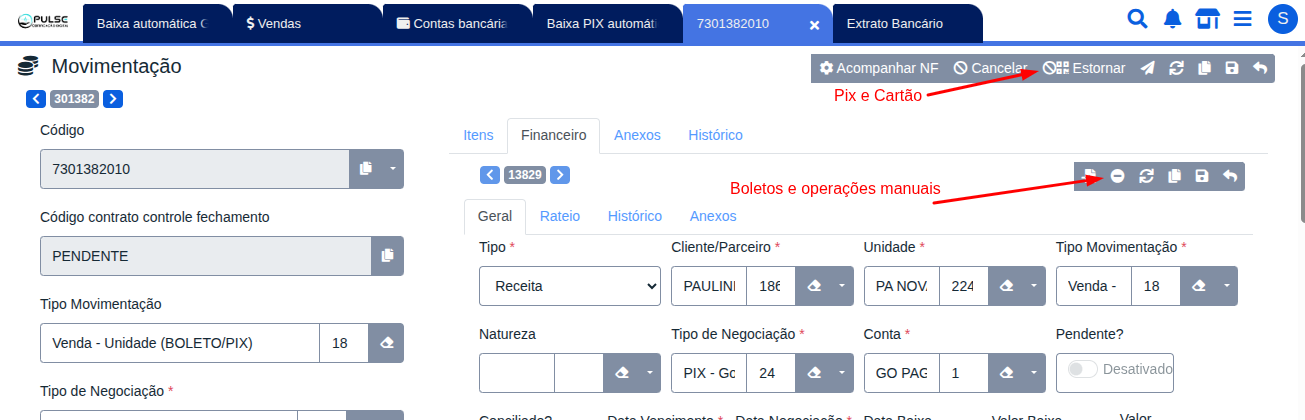
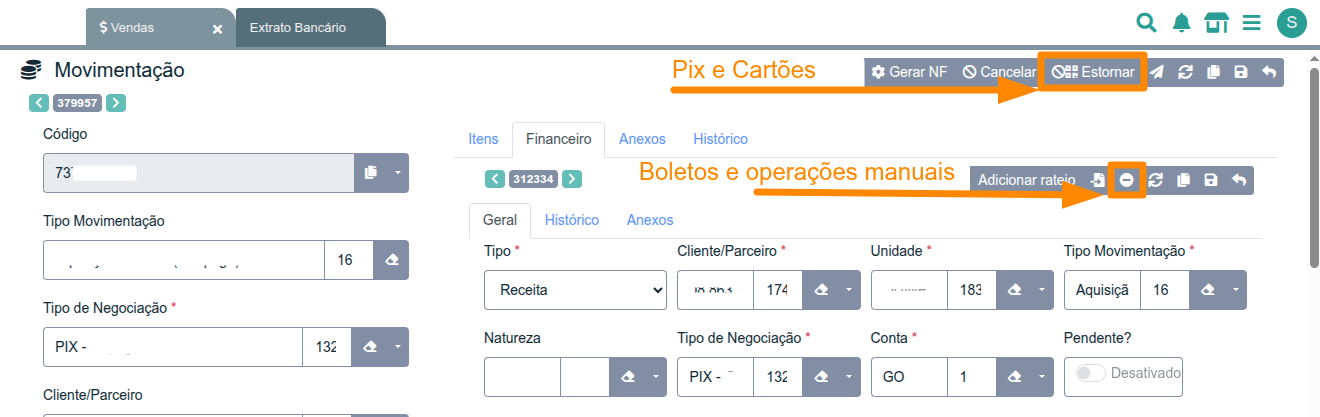
Inclusão do item no menu e correção das imagens

diff --git a/SUMMARY.md b/SUMMARY.md
@@ -142,6 +142,7 @@
     - [Como alterar a data de vencimento de um boleto?](erp-v2/guia_utilizacao/como_alterar_data_venc_boleto.md)
     - [Como cancelar um boleto Emitido/Vencido no seu Gestão Online?](/erp-v2/guia_utilizacao/como_cancelar_boleto_emitido.md)
     - [Como Adicionar/Atualizar meu certificado digital para emitir NFSe?](/erp-v2/guia_utilizacao/como_atualizar_meu_certificado_digital_para_para_emissao_de_nfse.md)
+    - [Como estornar uma venda que possui conciliação bancária?](/erp-v2/guia_utilizacao/como_estornar_vendas_conciliadas.md)
 
 - [🏬 Marketplace](erp-v2/marketplace/inicio.md)
    <!-- * [Como funciona o marketplace?](erp-v2/marketplace/como-funciona.md) -->
